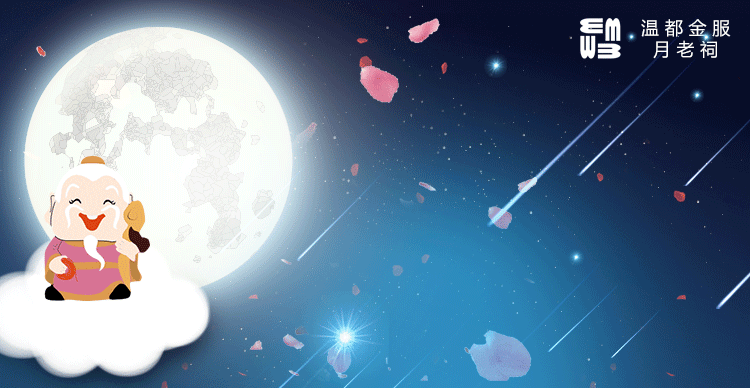
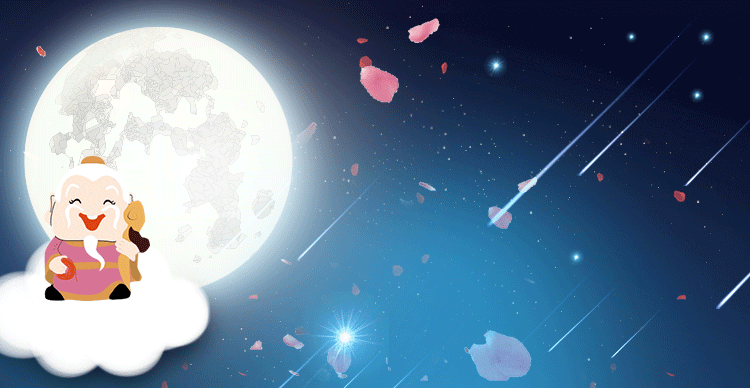
情人节活动添加锚点及结果页显示图片
Summary: 情人节活动添加锚点及结果页显示图片

Test Plan: 情人节活动 添加锚点 生成dist

Reviewers: modi

Subscribers: liufengjun

Differential Revision: https://dx.wangcaigu.cn/D2828

diff --git a/fe/dist/v2/wap/campaigns/active20170821/css/index.css b/fe/dist/v2/wap/campaigns/active20170821/css/index.css
@@ -1,1 +1,1 @@
-body{background-color:#fff;overflow-x:hidden;position:absolute;height:100%;width:100%;left:50%;transform:translateX(-50%);-webkit-transform:translateX(-50%)}.ctn-bg{position:relative;top:0;left:0}.ctn-bg .poetry{z-index:3;width:32.66666667%;position:absolute;top:2.46666667rem;left:43.333333%;height:10.66666667rem;overflow:hidden}.ctn-bg .poetry ul{width:100%;height:100%;overflow:hidden}.ctn-bg .poetry ul li.lf{padding-top:1rem}.ctn-bg .poetry ul li.lf img{display:block;width:1.12rem;margin:0 .13333333rem .26666667rem;opacity:0}.ctn-bg .poetry ul li.rg img{display:block;width:1.2666667rem;margin:0 auto .2rem;opacity:0}.ctn-bg .poetry ul li.rg img:first-child{width:1.36rem;margin-bottom:.4rem}.bg-one,.bg-two,.bg-three{height:5.17333333rem;width:100%}.bg-one img,.bg-two img,.bg-three img{display:block;height:100%;width:100%}.bg-three{position:relative;top:0;left:0}.bg-three .lover{position:absolute;top:.8rem;left:0;width:100%;display:block;height:4.90666667rem;z-index:4}.text-popver{position:absolute;top:0;left:7%;width:92%;z-index:2}.poetry ul li.rg img:first-child{transition:opacity 2s;-webkit-transition:opacity 2s}.poetry ul li.rg img:nth-child(2){transition:opacity 2s .15s;-webkit-transition:opacity 2s .15s}.poetry ul li.rg img:nth-child(3){transition:opacity 2s .3s;-webkit-transition:opacity 2s .3s}.poetry ul li.rg img:nth-child(4){transition:opacity 2s .45s;-webkit-transition:opacity 2s .45s}.poetry ul li.rg img:nth-child(5){transition:opacity 2s .6s;-webkit-transition:opacity 2s .6s}.poetry ul li.lf img:first-child{transition:opacity 2s .75s;-webkit-transition:opacity 2s .75s}.poetry ul li.lf img:nth-child(2){transition:opacity 2s .9s;-webkit-transition:opacity 2s .9s}.poetry ul li.lf img:nth-child(3){transition:opacity 2s 1.05s;-webkit-transition:opacity 2s 1.05s}.poetry ul li.lf img:nth-child(4){transition:opacity 2s 1.2s;-webkit-transition:opacity 2s 1.2s}.poetry ul li.lf img:nth-child(5){transition:opacity 2s 1.35s;-webkit-transition:opacity 2s 1.35s}.poetry ul li.lf img:nth-child(6){transition:opacity 2s 1.5s;-webkit-transition:opacity 2s 1.5s}.poetry ul li.lf img:nth-child(7){transition:opacity 2s 1.65s;-webkit-transition:opacity 2s 1.65s}.poetry{transition:opacity 2s 3s;-webkit-transition:opacity 2s 3s}.svg-box{width:100%;height:5.17333333rem;position:absolute;top:-1.70666667rem;left:0;overflow:hidden}svg{position:absolute;bottom:-.9rem;left:32%;transform:scale(0.5);-webkit-transform:scale(0.5)}path{stroke-dasharray:1500;stroke-dashoffset:1500;animation:dash 3s linear;-webkit-animation:dash 3s linear;animation-fill-mode:forwards;-webkit-animation-fill-mode:forwards}@keyframes dash{to{stroke-dashoffset:0}}@media (min-width:320px){svg{bottom:-1.8rem;left:16%;transform:scale(0.5);-webkit-transform:scale(0.5)}}@media (min-width:350px){svg{bottom:-1.3rem;left:24%;transform:scale(0.5);-webkit-transform:scale(0.5)}}@media (min-width:375px){svg{bottom:-1.1rem;left:28%;transform:scale(0.5);-webkit-transform:scale(0.5)}}@media (min-width:400px){svg{bottom:-.9rem;left:32%;transform:scale(0.5);-webkit-transform:scale(0.5)}}@media (min-width:750px){svg{bottom:.7rem;left:54%;transform:scale(1);-webkit-transform:scale(1)}}.yaoqian{width:100%;display:block;position:absolute;top:-2rem;left:0;z-index:5;overflow:hidden}.yaoqian img{width:100%;height:100%;margin-left:4%}.yaoqian video{width:100%;height:100%}.yaoqian .rocker{position:absolute;bottom:.8rem;height:4rem;width:60%;transform:translateX(32%);-webkit-transform:translateX(32%)}.animated{-webkit-animation-duration:1s;animation-duration:1s;animation-delay:4.5s;-webkit-animation-delay:4.5s;-webkit-animation-fill-mode:both;animation-fill-mode:both}@-webkit-keyframes bounceInDown{0%,60%,75%,90%,100%{-webkit-transition-timing-function:cubic-bezier(0.215,.61,.355,1);transition-timing-function:cubic-bezier(0.215,.61,.355,1)}0%{opacity:0;-webkit-transform:translate3d(0,-3000px,0);transform:translate3d(0,-3000px,0)}60%{opacity:1;-webkit-transform:translate3d(0,25px,0);transform:translate3d(0,25px,0)}75%{-webkit-transform:translate3d(0,-10px,0);transform:translate3d(0,-10px,0)}90%{-webkit-transform:translate3d(0,5px,0);transform:translate3d(0,5px,0)}100%{-webkit-transform:none;transform:none}}@keyframes bounceInDown{0%,60%,75%,90%,100%{-webkit-transition-timing-function:cubic-bezier(0.215,.61,.355,1);transition-timing-function:cubic-bezier(0.215,.61,.355,1)}0%{opacity:0;-webkit-transform:translate3d(0,-3000px,0);transform:translate3d(0,-3000px,0)}60%{opacity:1;-webkit-transform:translate3d(0,25px,0);transform:translate3d(0,25px,0)}75%{-webkit-transform:translate3d(0,-10px,0);transform:translate3d(0,-10px,0)}90%{-webkit-transform:translate3d(0,5px,0);transform:translate3d(0,5px,0)}100%{-webkit-transform:none;transform:none}}.bounceInDown{-webkit-animation-name:bounceInDown;animation-name:bounceInDown}.tips{position:absolute;bottom:2%;width:100%;z-index:10;opacity:0}.tips img{width:77.6%;display:block;margin:0 auto}.tips{transition:opacity .15s 5.5s;-webkit-transition:opacity .15s 5.5s}.mask{background:rgba(0,0,0,.9);opacity:1;filter:alpha(opacity:100);z-index:100000;color:#fff;font-weight:600;font-size:.8rem;padding-top:3rem;text-align:center;letter-spacing:.5em;display:none;overflow:hidden;position:fixed}
+body{background-color:#fff;overflow-x:hidden;position:absolute;height:100%}.ctn-bg{position:relative;top:0;left:0}.ctn-bg .poetry{z-index:3;width:32.66666667%;position:absolute;top:2.46666667rem;left:43.333333%;height:10.66666667rem;overflow:hidden}.ctn-bg .poetry ul{width:100%;height:100%;overflow:hidden}.ctn-bg .poetry ul li.lf{padding-top:1rem}.ctn-bg .poetry ul li.lf img{display:block;width:1.12rem;margin:0 .13333333rem .26666667rem;opacity:0}.ctn-bg .poetry ul li.rg img{display:block;width:1.2666667rem;margin:0 auto .2rem;opacity:0}.ctn-bg .poetry ul li.rg img:first-child{width:1.36rem;margin-bottom:.4rem}.bg-one,.bg-two,.bg-three{height:5.17333333rem;width:100%}.bg-one img,.bg-two img,.bg-three img{display:block;height:100%;width:100%}.bg-three{position:relative;top:0;left:0}.bg-three .lover{position:absolute;top:.8rem;left:0;width:100%;display:block;height:4.90666667rem;z-index:4}.text-popver{position:absolute;top:0;left:7%;width:92%;z-index:2}.poetry ul li.rg img:first-child{transition:opacity 2s;-webkit-transition:opacity 2s}.poetry ul li.rg img:nth-child(2){transition:opacity 2s .15s;-webkit-transition:opacity 2s .15s}.poetry ul li.rg img:nth-child(3){transition:opacity 2s .3s;-webkit-transition:opacity 2s .3s}.poetry ul li.rg img:nth-child(4){transition:opacity 2s .45s;-webkit-transition:opacity 2s .45s}.poetry ul li.rg img:nth-child(5){transition:opacity 2s .6s;-webkit-transition:opacity 2s .6s}.poetry ul li.lf img:first-child{transition:opacity 2s .75s;-webkit-transition:opacity 2s .75s}.poetry ul li.lf img:nth-child(2){transition:opacity 2s .9s;-webkit-transition:opacity 2s .9s}.poetry ul li.lf img:nth-child(3){transition:opacity 2s 1.05s;-webkit-transition:opacity 2s 1.05s}.poetry ul li.lf img:nth-child(4){transition:opacity 2s 1.2s;-webkit-transition:opacity 2s 1.2s}.poetry ul li.lf img:nth-child(5){transition:opacity 2s 1.35s;-webkit-transition:opacity 2s 1.35s}.poetry ul li.lf img:nth-child(6){transition:opacity 2s 1.5s;-webkit-transition:opacity 2s 1.5s}.poetry ul li.lf img:nth-child(7){transition:opacity 2s 1.65s;-webkit-transition:opacity 2s 1.65s}.poetry{transition:opacity 2s 3s;-webkit-transition:opacity 2s 3s}.svg-box{width:100%;height:5.17333333rem;position:absolute;top:-1.70666667rem;left:0;overflow:hidden}svg{position:absolute;bottom:-.9rem;left:32%;transform:scale(0.5);-webkit-transform:scale(0.5)}path{stroke-dasharray:1500;stroke-dashoffset:1500;animation:dash 3s linear;-webkit-animation:dash 3s linear;animation-fill-mode:forwards;-webkit-animation-fill-mode:forwards}@keyframes dash{to{stroke-dashoffset:0}}@media (min-width:320px){svg{bottom:-1.8rem;left:16%;transform:scale(0.5);-webkit-transform:scale(0.5)}}@media (min-width:350px){svg{bottom:-1.3rem;left:24%;transform:scale(0.5);-webkit-transform:scale(0.5)}}@media (min-width:375px){svg{bottom:-1.1rem;left:28%;transform:scale(0.5);-webkit-transform:scale(0.5)}}@media (min-width:400px){svg{bottom:-.9rem;left:32%;transform:scale(0.5);-webkit-transform:scale(0.5)}}@media (min-width:750px){svg{bottom:.7rem;left:54%;transform:scale(1);-webkit-transform:scale(1)}}.yaoqian{width:100%;display:block;position:absolute;top:-2rem;left:0;z-index:5;overflow:hidden}.yaoqian img{width:100%;height:100%;margin-left:4%}.yaoqian video{width:100%;height:100%}.yaoqian .rocker{position:absolute;bottom:.8rem;height:4rem;width:60%;transform:translateX(32%);-webkit-transform:translateX(32%)}.animated{-webkit-animation-duration:1s;animation-duration:1s;animation-delay:4.5s;-webkit-animation-delay:4.5s;-webkit-animation-fill-mode:both;animation-fill-mode:both}@-webkit-keyframes bounceInDown{0%,60%,75%,90%,100%{-webkit-transition-timing-function:cubic-bezier(0.215,.61,.355,1);transition-timing-function:cubic-bezier(0.215,.61,.355,1)}0%{opacity:0;-webkit-transform:translate3d(0,-3000px,0);transform:translate3d(0,-3000px,0)}60%{opacity:1;-webkit-transform:translate3d(0,25px,0);transform:translate3d(0,25px,0)}75%{-webkit-transform:translate3d(0,-10px,0);transform:translate3d(0,-10px,0)}90%{-webkit-transform:translate3d(0,5px,0);transform:translate3d(0,5px,0)}100%{-webkit-transform:none;transform:none}}@keyframes bounceInDown{0%,60%,75%,90%,100%{-webkit-transition-timing-function:cubic-bezier(0.215,.61,.355,1);transition-timing-function:cubic-bezier(0.215,.61,.355,1)}0%{opacity:0;-webkit-transform:translate3d(0,-3000px,0);transform:translate3d(0,-3000px,0)}60%{opacity:1;-webkit-transform:translate3d(0,25px,0);transform:translate3d(0,25px,0)}75%{-webkit-transform:translate3d(0,-10px,0);transform:translate3d(0,-10px,0)}90%{-webkit-transform:translate3d(0,5px,0);transform:translate3d(0,5px,0)}100%{-webkit-transform:none;transform:none}}.bounceInDown{-webkit-animation-name:bounceInDown;animation-name:bounceInDown}.tips{position:absolute;bottom:2%;width:100%;z-index:10;opacity:0}.tips img{width:77.6%;display:block;margin:0 auto}.tips{transition:opacity .15s 5.5s;-webkit-transition:opacity .15s 5.5s}.mask{background:rgba(0,0,0,.9);opacity:1;filter:alpha(opacity:100);z-index:1000001;color:#fff;font-weight:600;font-size:.8rem;padding-top:3rem;text-align:center;letter-spacing:.5em;overflow:hidden;position:fixed}.logo{width:2.0133333rem;position:fixed;top:.266667rem;right:.266667rem;z-index:100000}

diff --git a/fe/dist/wap/campaigns/active20170821/index.html b/fe/dist/wap/campaigns/active20170821/index.html
@@ -12,7 +12,9 @@
     <script src="__FE_BASE_URI__/libs/jquery-1.11.1.min.js"></script>
 </head>
 <body>
+<div class="mask">请在微信端<br>打开链接</div>
 <div class="flex-content">
+    <img class="logo" src="__FE_BASE_URI__wap/campaigns/active20170821/images/logo.png" alt="">
     <div class="ctn-bg">
         <div class="bg-one">
             <img src="__FE_BASE_URI__wap/campaigns/active20170821/images/bg_01.png" alt="">
@@ -61,6 +63,8 @@
         </div>
     </div>
 </div>
+<a id="anchor" href="#Myanchor"></a>
+<div id="Myanchor"></div>
 <script>
     $(function () {
         $('.poetry ul li.rg img,.poetry ul li.lf img,.tips').css({opacity: 1});
@@ -76,12 +80,12 @@
             },1000)
         }
         var isWX = moduleFn.parseUA();
-        if(!isWX.weixin){
-            $('.mask').show();
+        if(isWX.weixin){
+            $('.mask').hide();
         }
+        $('#anchor')[0].click();
     })
 </script>
 <img src="__FE_BASE_URI__wap/campaigns/active20170821/images/yaoqian.gif" style="width: 0;height: 0;" alt="">
-<div class="mask">请在微信端<br>打开链接</div>
 </body>
 </html>

diff --git a/fe/src/wap/campaigns/active20170821/index.html b/fe/src/wap/campaigns/active20170821/index.html
@@ -12,7 +12,9 @@
     <script src="../../libs/jquery-1.11.1.min.js"></script>
 </head>
 <body>
+<div class="mask">请在微信端<br>打开链接</div>
 <div class="flex-content">
+    <img class="logo" src="images/logo.png" alt="">
     <div class="ctn-bg">
         <div class="bg-one">
             <img src="images/bg_01.png" alt="">
@@ -61,6 +63,8 @@
         </div>
     </div>
 </div>
+<a id="anchor" href="#Myanchor"></a>
+<div id="Myanchor"></div>
 <script>
     $(function () {
         $('.poetry ul li.rg img,.poetry ul li.lf img,.tips').css({opacity: 1});
@@ -76,12 +80,12 @@
             },1000)
         }
         var isWX = moduleFn.parseUA();
-        if(!isWX.weixin){
-            $('.mask').show();
+        if(isWX.weixin){
+            $('.mask').hide();
         }
+        $('#anchor')[0].click();
     })
 </script>
 <img src="images/yaoqian.gif" style="width: 0;height: 0;" alt="">
-<div class="mask">请在微信端<br>打开链接</div>
 </body>
 </html>

diff --git a/fe/src/wap/campaigns/active20170821/css/index.css b/fe/src/wap/campaigns/active20170821/css/index.css
@@ -3,10 +3,6 @@ body {
   overflow-x: hidden;
   position: absolute;
   height: 100%;
-  width: 100%;
-  left: 50%;
-  transform: translateX(-50%);
-  -webkit-transform: translateX(-50%);
 }
 .ctn-bg {
   position: relative;
@@ -322,14 +318,20 @@ path {
   background: rgba(0,0,0,.9);
   opacity: 1;
   filter: alpha(opacity:100);
-  z-index: 100000;
+  z-index: 1000001;
   color: #fff;
   font-weight: 600;
   font-size:0.8rem;
   padding-top: 3rem;
   text-align: center;
   letter-spacing: 0.5em;
-  display: none;
   overflow: hidden;
   position: fixed;
+}
+.logo {
+  width:2.0133333rem;
+  position: fixed;
+  top:0.266667rem;
+  right:0.266667rem;
+  z-index: 100000;
 }

diff --git a/fe/dist/wap/campaigns/active20170821/result.html b/fe/dist/wap/campaigns/active20170821/result.html
@@ -23,9 +23,12 @@
 		<img src="__FE_BASE_URI__wap/campaigns/active20170821/images/pic_couple.png" alt="">
 	</div>
 </div>
+<a id="anchor" href="#Myanchor"></a>
+<div id="Myanchor"></div>
 <script>
 	$(function () {
 		$(".flex-content").fadeIn(3000);
+        $('#anchor')[0].click();
   })
 </script>
 </body>

diff --git a/fe/src/wap/campaigns/active20170821/result.html b/fe/src/wap/campaigns/active20170821/result.html
@@ -23,9 +23,12 @@
 		<img src="images/pic_couple.png" alt="">
 	</div>
 </div>
+<a id="anchor" href="#Myanchor"></a>
+<div id="Myanchor"></div>
 <script>
 	$(function () {
 		$(".flex-content").fadeIn(3000);
+        $('#anchor')[0].click();
   })
 </script>
 </body>

diff --git a/view/themes/wdjf/m/modules/promotion/fest77/index.php b/view/themes/wdjf/m/modules/promotion/fest77/index.php
@@ -15,7 +15,9 @@ $this->share = new Share([
 <script src="<?= FE_BASE_URI ?>wap/common/js/com.js"></script>
 <script src="<?= FE_BASE_URI ?>libs/lib.flexible3.js"></script>
 <script src="<?= FE_BASE_URI ?>libs/jquery-1.11.1.min.js"></script>
+<div class="mask">请在微信端<br>打开链接</div>
 <div class="flex-content">
+    <img class="logo" src="<?= FE_BASE_URI ?>wap/campaigns/active20170821/images/logo.png" alt="">
     <div class="ctn-bg">
         <div class="bg-one">
             <img src="<?= FE_BASE_URI ?>wap/campaigns/active20170821/images/bg_01.png" alt="">
@@ -64,8 +66,8 @@ $this->share = new Share([
         </div>
     </div>
 </div>
-<img src="<?= FE_BASE_URI ?>wap/campaigns/active20170821/images/yaoqian.gif" style="width: 0;height: 0;" alt="">
-<div class="mask">请在微信端<br>打开链接</div>
+<a id="anchor" href="#Myanchor"></a>
+<div id="Myanchor"></div>
 <script>
     $(function () {
         $('.poetry ul li.rg img,.poetry ul li.lf img,.tips').css({opacity: 1});
@@ -84,5 +86,7 @@ $this->share = new Share([
         if(!isWX.weixin){
             $('.mask').show();
         }
+        $('#anchor')[0].click();
     })
 </script>
+<img src="<?= FE_BASE_URI ?>wap/campaigns/active20170821/images/yaoqian.gif" style="width: 0;height: 0;" alt="">

diff --git a/wap/modules/promotion/controllers/Fest77Controller.php b/wap/modules/promotion/controllers/Fest77Controller.php
@@ -58,13 +58,13 @@ class Fest77Controller extends Controller
 
     public function actionNoCode($xcode)
     {
-        $imagePath = ASSETS_BASE_URI.'images/fest77/no_code.jpg';
+        $imagePath = 'images/fest77/no_code.jpg';
         $this->showImage(Image::make($imagePath), $this->getWordsConfig($xcode));
     }
 
     public function actionWithCode($xcode)
     {
-        $imagePath = ASSETS_BASE_URI.'images/fest77/with_code.jpg';
+        $imagePath = 'images/fest77/with_code.jpg';
         $this->showImage(Image::make($imagePath), $this->getWordsConfig($xcode));
     }
 

diff --git a/view/themes/wdjf/m/modules/promotion/fest77/result.php b/view/themes/wdjf/m/modules/promotion/fest77/result.php
@@ -25,8 +25,11 @@ $this->share = new Share([
         <img src="<?= FE_BASE_URI ?>wap/campaigns/active20170821/images/pic_couple.png" alt="">
     </div>
 </div>
+<a id="anchor" href="#Myanchor"></a>
+<div id="Myanchor"></div>
 <script>
     $(function () {
         $(".flex-content").fadeIn(3000);
+        $('#anchor')[0].click();
     })
 </script>
